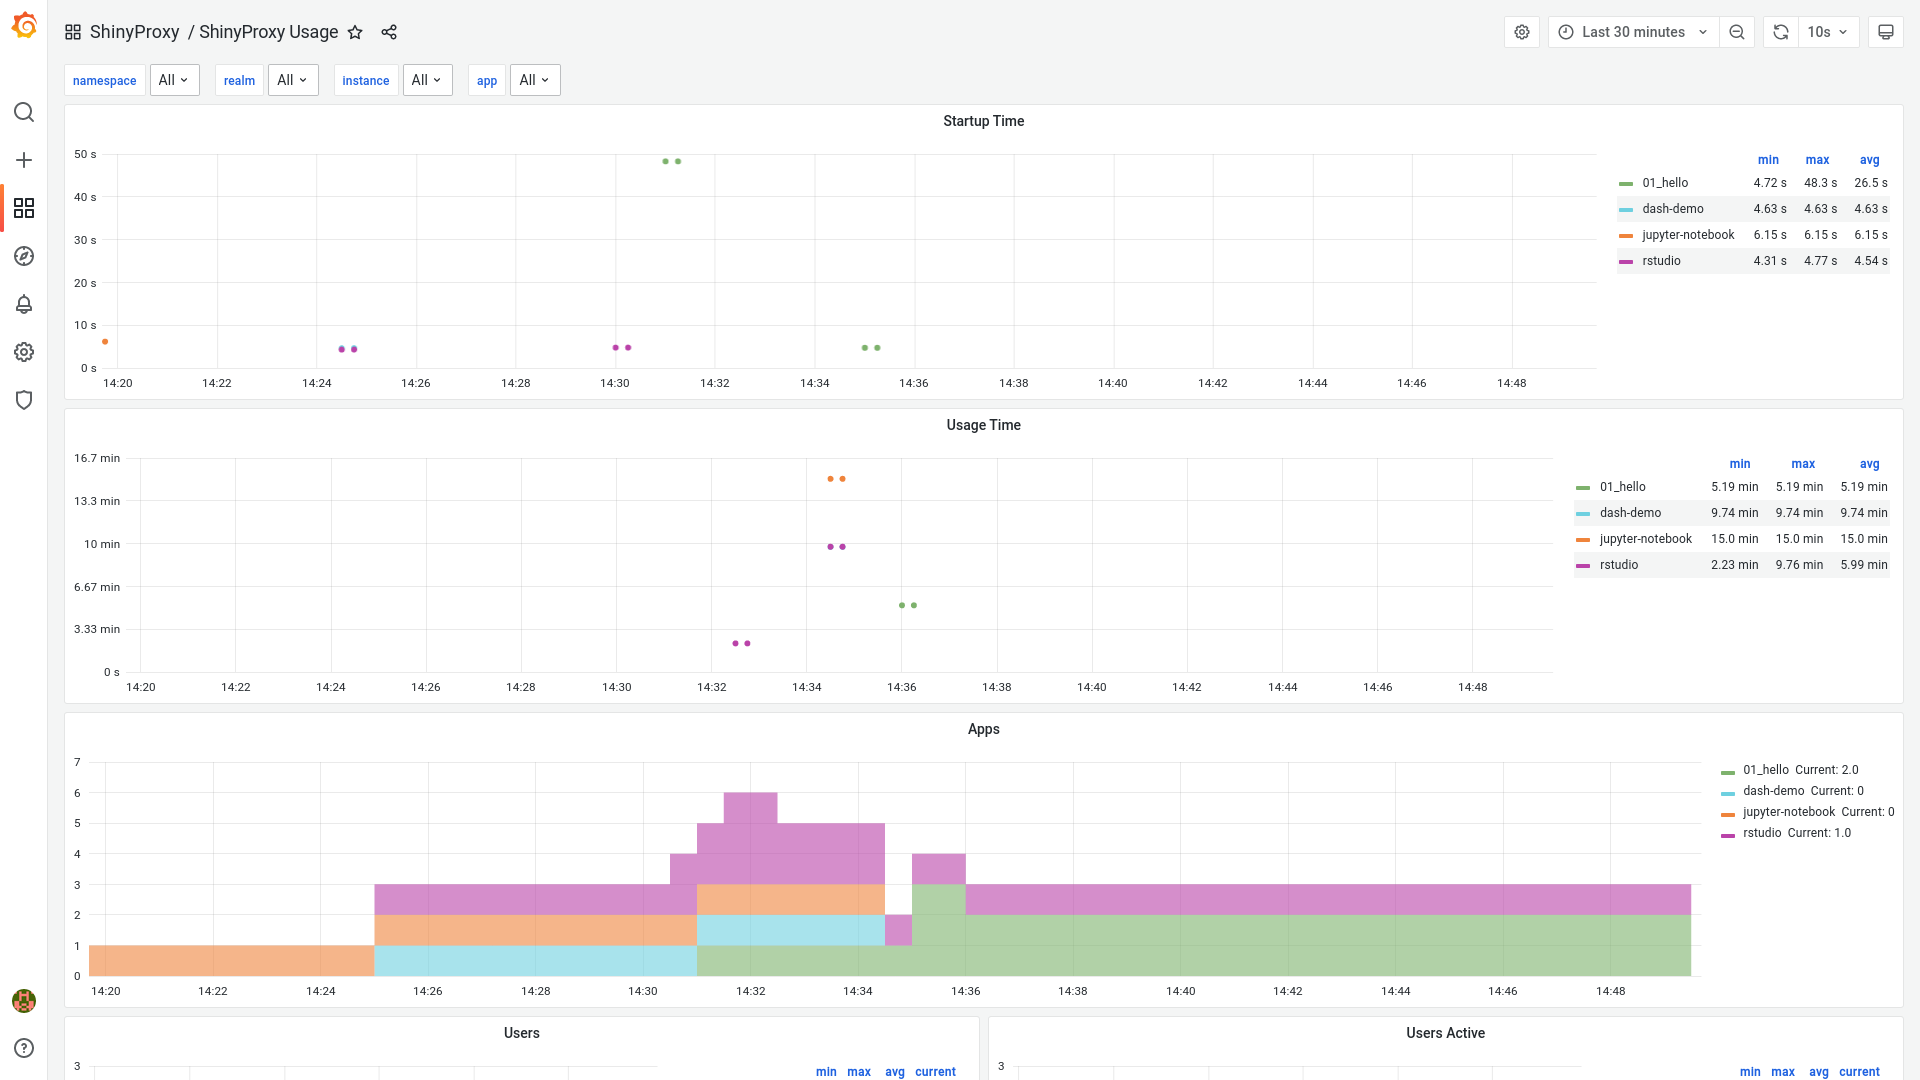
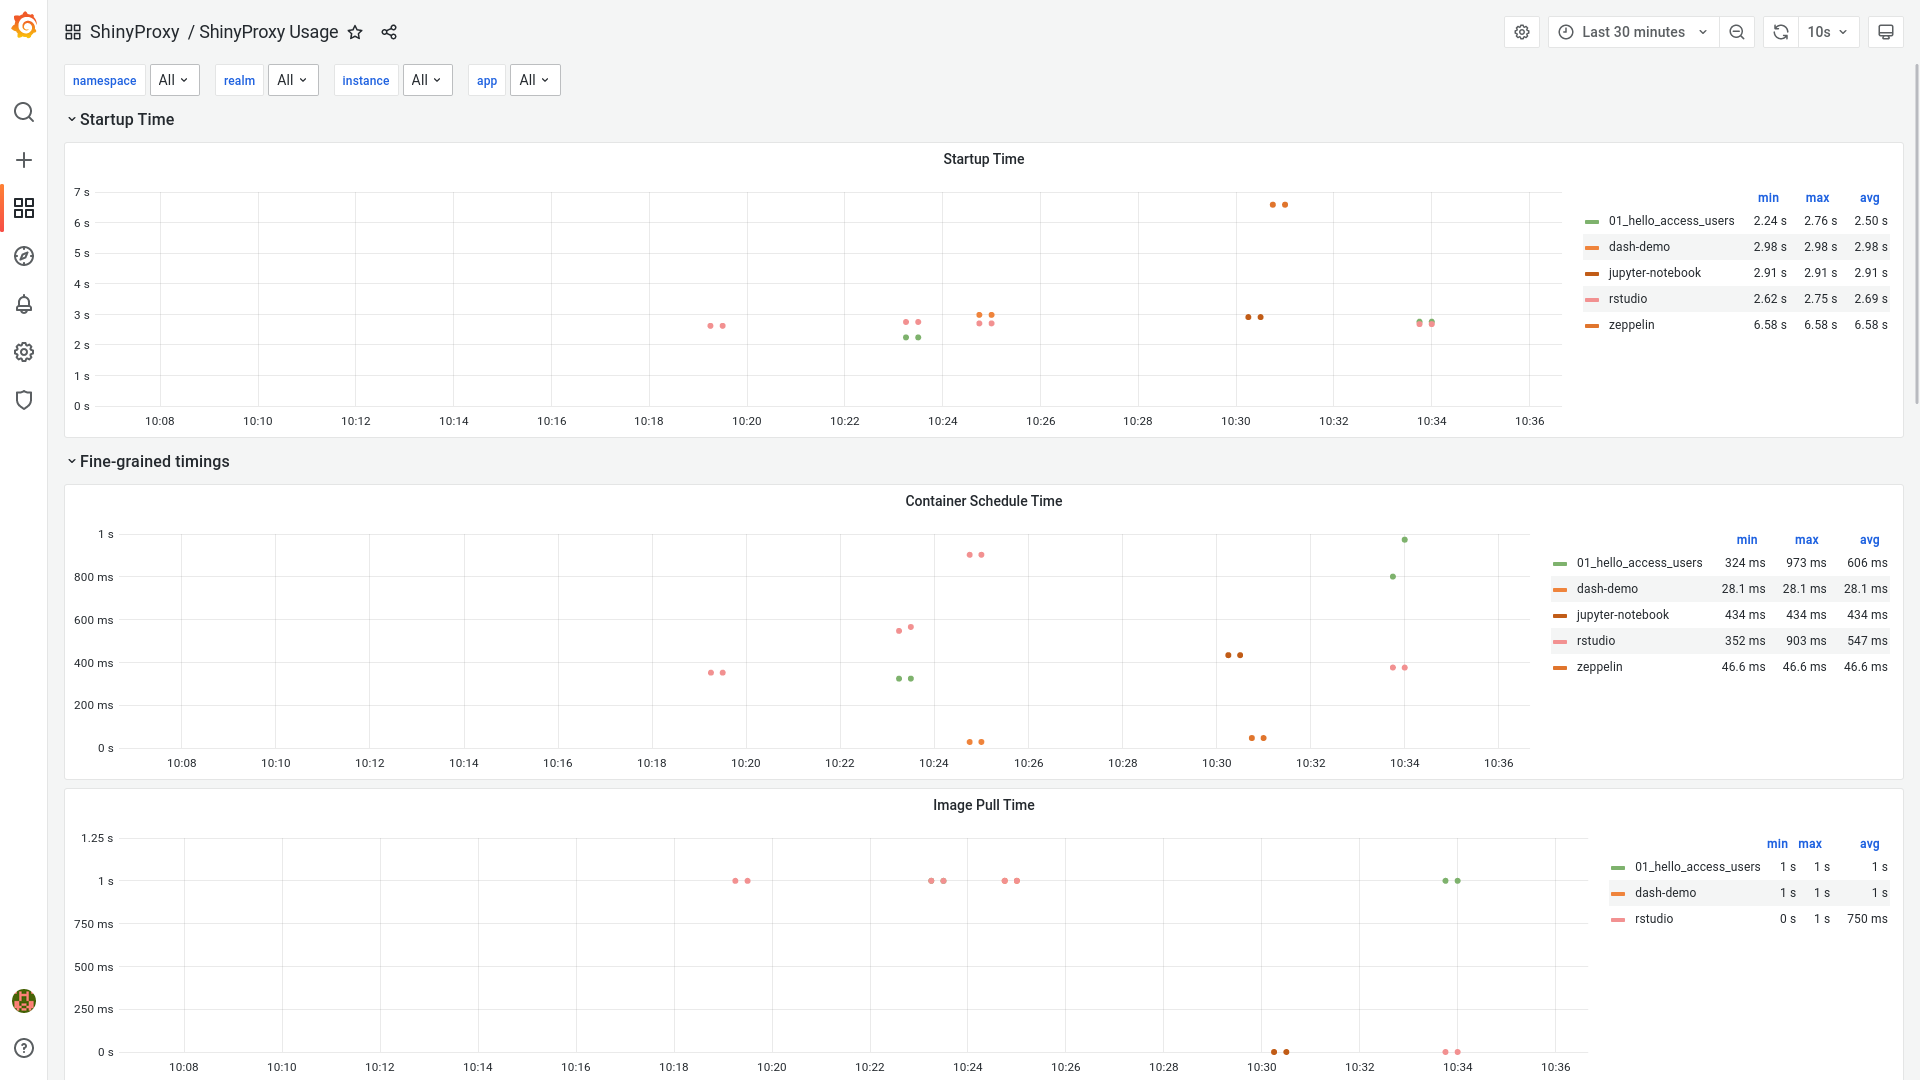
Update README and screenshots

diff --git a/README.md b/README.md
@@ -15,12 +15,26 @@ The retention of both Loki and Prometheus is set to 90 days.
 
 ### ShinyProxy Usage
 
-[**Screenshot**](.github/screenshots/shinyproxy-usage.png)
+[**Screenshot**](https://raw.githubusercontent.com/openanalytics/shinyproxy-monitoring/master/.github/screenshots/shinyproxy-usage.png)
+[**Screenshot (continued)**](https://raw.githubusercontent.com/openanalytics/shinyproxy-monitoring/master/.github/screenshots/shinyproxy-usage2.png)
 
 - **Datasource:** Prometheus
 - **Goal:** provide inside in the *current* usage and performance of ShinyProxy.
 - **Provided statistics**:
     - App Startup Time
+    - Fine-grained timings
+      - Container schedule time (available on Kubernetes): the time needed for
+        the container to get assigned to a node. Includes the time to launch a
+        new node if the cluster needs to scale-up.
+      - Image pull time (available on Docker and Kubernetes)
+      - Container initialization time (available on Docker, Docker Swarm and
+        Kubernetes): any time needed to start the app which is not part
+        of the other metrics
+      - Application Startup time (available on Docker, Docker swarm and
+        Kubernetes): the time between the start the application process and when
+        the app is reachable by ShinyProxy. For example, in the case of the
+        Shiny app, this is the time the R process takes to startup and be
+        reachable on its webserver.
     - App Usage Time
     - Number of running apps (per app name)
     - Number of logged-in users
@@ -28,13 +42,9 @@ The retention of both Loki and Prometheus is set to 90 days.
     - Number of auth failures
     - Number of app start failures
 
-**Note**: the next version of ShinyProxy will provide more detailed metrics for
-the startup time. For example, the time it took to pull the Docker image or to
-schedule the container etc.
-
 ### ShinyProxy Aggregated Usage
 
-[**Screenshot**](.github/screenshots/shinyproxy-aggregated-usage.png)
+[**Screenshot**](https://raw.githubusercontent.com/openanalytics/shinyproxy-monitoring/master/.github/screenshots/shinyproxy-aggregated-usage.png)
 
 - **Datasource:** Prometheus
 - **Goal:** provide inside in the *long-term* usage and performance of
@@ -46,7 +56,7 @@ schedule the container etc.
 
 ### ShinyProxy logs
 
-[**Screenshot**](.github/screenshots/shinyproxy-logs.png)
+[**Screenshot**](https://raw.githubusercontent.com/openanalytics/shinyproxy-monitoring/master/.github/screenshots/shinyproxy-logs.png)
 
 - **Datasource:** Loki
 - **Goal:** show the logs of the ShinyProxy server
@@ -54,13 +64,12 @@ schedule the container etc.
     - Number of warnings
     - Number of errors
 
-**Note:** promtail is configured such that it recognizes when Java outputs a stack
-trace and therefore collects this as a single log message. We could improve and
-optimize this by adding an option to ShinyProxy to log to JSON.
+**Note:** This requires ShinyProxy to log using
+the [JSON format](https://shinyproxy.io/documentation/configuration/#json-logstash-logging).
 
 ### ShinyProxy Operator Logs
 
-[**Screenshot**](.github/screenshots/shinyproxy-operator-logs.png)
+[**Screenshot**](https://raw.githubusercontent.com/openanalytics/shinyproxy-monitoring/master/.github/screenshots/shinyproxy-operator-logs.png)
 
 - **Datasource:** Loki
 - **Goal:** show the logs of the ShinyProxy Operator
@@ -74,7 +83,8 @@ optimize this by adding an option to the ShinyProxy Operator to log to JSON.
 
 ### ShinyProxy App Logs
 
-[**Screenshot**](.github/screenshots/shinyproxy-app-logs.png)
+[**Screenshot**](https://raw.githubusercontent.com/openanalytics/shinyproxy-monitoring/master/.github/screenshots/shinyproxy-app-logs.png)
+[**Screenshot (error)**](https://raw.githubusercontent.com/openanalytics/shinyproxy-monitoring/master/.github/screenshots/shinyproxy-app-logs2.png)
 
 - **Datasource:** Loki
 - **Goal:** show the logs of any app started by ShinyProxy.
@@ -86,9 +96,12 @@ optimize this by adding an option to the ShinyProxy Operator to log to JSON.
 than the namespace of the ShinyProxy server. As an example, the Dash application
 in ShinyProxy 1 runs in a different namespace.
 
+**Note:** this dashboard also shows parts of the ShinyProxy log that are
+relevant for this app.
+
 ### ShinyProxy App Resources
 
-[**Screenshot**](.github/screenshots/shinyproxy-app-resources.png)
+[**Screenshot**](https://raw.githubusercontent.com/openanalytics/shinyproxy-monitoring/master/.github/screenshots/shinyproxy-app-resources.png)
 
 - **Datasource:** Prometheus
 - **Goal:** show the resources (CPU, Memory, Network) used by any app started by
@@ -116,8 +129,6 @@ configuration of Promtail must be changed to better work with ShinyProxy. See
 the [`overlays/promtail/configs/promtail.yaml`](overlays/promtail/configs/promtail.yaml)
 file. Some important changes are:
 
-* in `pipeline_changes` the pipeline was changed to use `docker` instead
-  of `CRI`. This depends on the Container Runtime that is used by Kubernetes.
 * in the `kubernetes-pods` scrape_config an extra section was added to not
   process any logs of ShinyProxy or the ShinyProxy operator. These logs are
   processed by the `shinyproxy-and-operator-pods` job.
